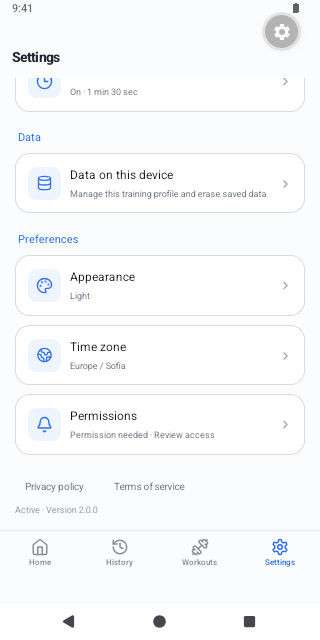
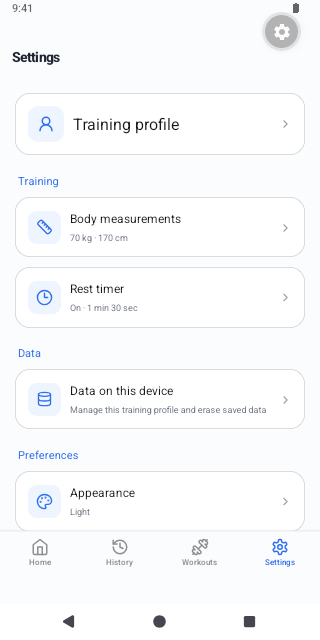
Keep settings help text scrollable on small screens

diff --git a/app/(tabs)/settings/account.tsx b/app/(tabs)/settings/account.tsx
@@ -73,14 +73,16 @@ export default function AccountSettingsScreen() {
       description={presentation.description}
     >
       <SettingsCard>
-        <YStack gap="$compact">
-          <Text fontSize="$caption" color="$colorSubtle">
-            Name
-          </Text>
-          <Text fontSize="$cardTitle" lineHeight="$cardTitle" fontWeight="600">
-            {fullName}
-          </Text>
-        </YStack>
+        {!presentation.profileEditor && (
+          <YStack gap="$compact">
+            <Text fontSize="$caption" color="$colorSubtle">
+              Name
+            </Text>
+            <Text fontSize="$cardTitle" lineHeight="$cardTitle" fontWeight="600">
+              {fullName}
+            </Text>
+          </YStack>
+        )}
         {presentation.email && (
           <YStack gap="$compact">
             <Text fontSize="$caption" color="$colorSubtle">
@@ -93,14 +95,6 @@ export default function AccountSettingsScreen() {
         )}
         {presentation.profileEditor && (
           <YStack gap="$field">
-            <YStack gap="$compact">
-              <Text fontSize="$cardTitle" lineHeight="$cardTitle" fontWeight="600">
-                {presentation.profileEditor.title}
-              </Text>
-              <Paragraph fontSize="$caption" color="$colorSubtle">
-                {presentation.profileEditor.description}
-              </Paragraph>
-            </YStack>
             <YStack gap="$compact">
               <Label htmlFor="account-training-first-name" fontSize="$caption" color="$colorSubtle">
                 {presentation.profileEditor.firstNameLabel}

diff --git a/components/settings/SettingsPage.tsx b/components/settings/SettingsPage.tsx
@@ -41,7 +41,7 @@ export function SettingsPage({
           showsVerticalScrollIndicator={false}
           keyboardShouldPersistTaps="handled"
         >
-          <YStack p="$page" gap="$section" width="100%" maxW="$content" self="center">
+          <YStack shrink={0} p="$page" gap="$section" width="100%" maxW="$content" self="center">
             <YStack gap="$field">
               <Text
                 accessibilityRole="header"
